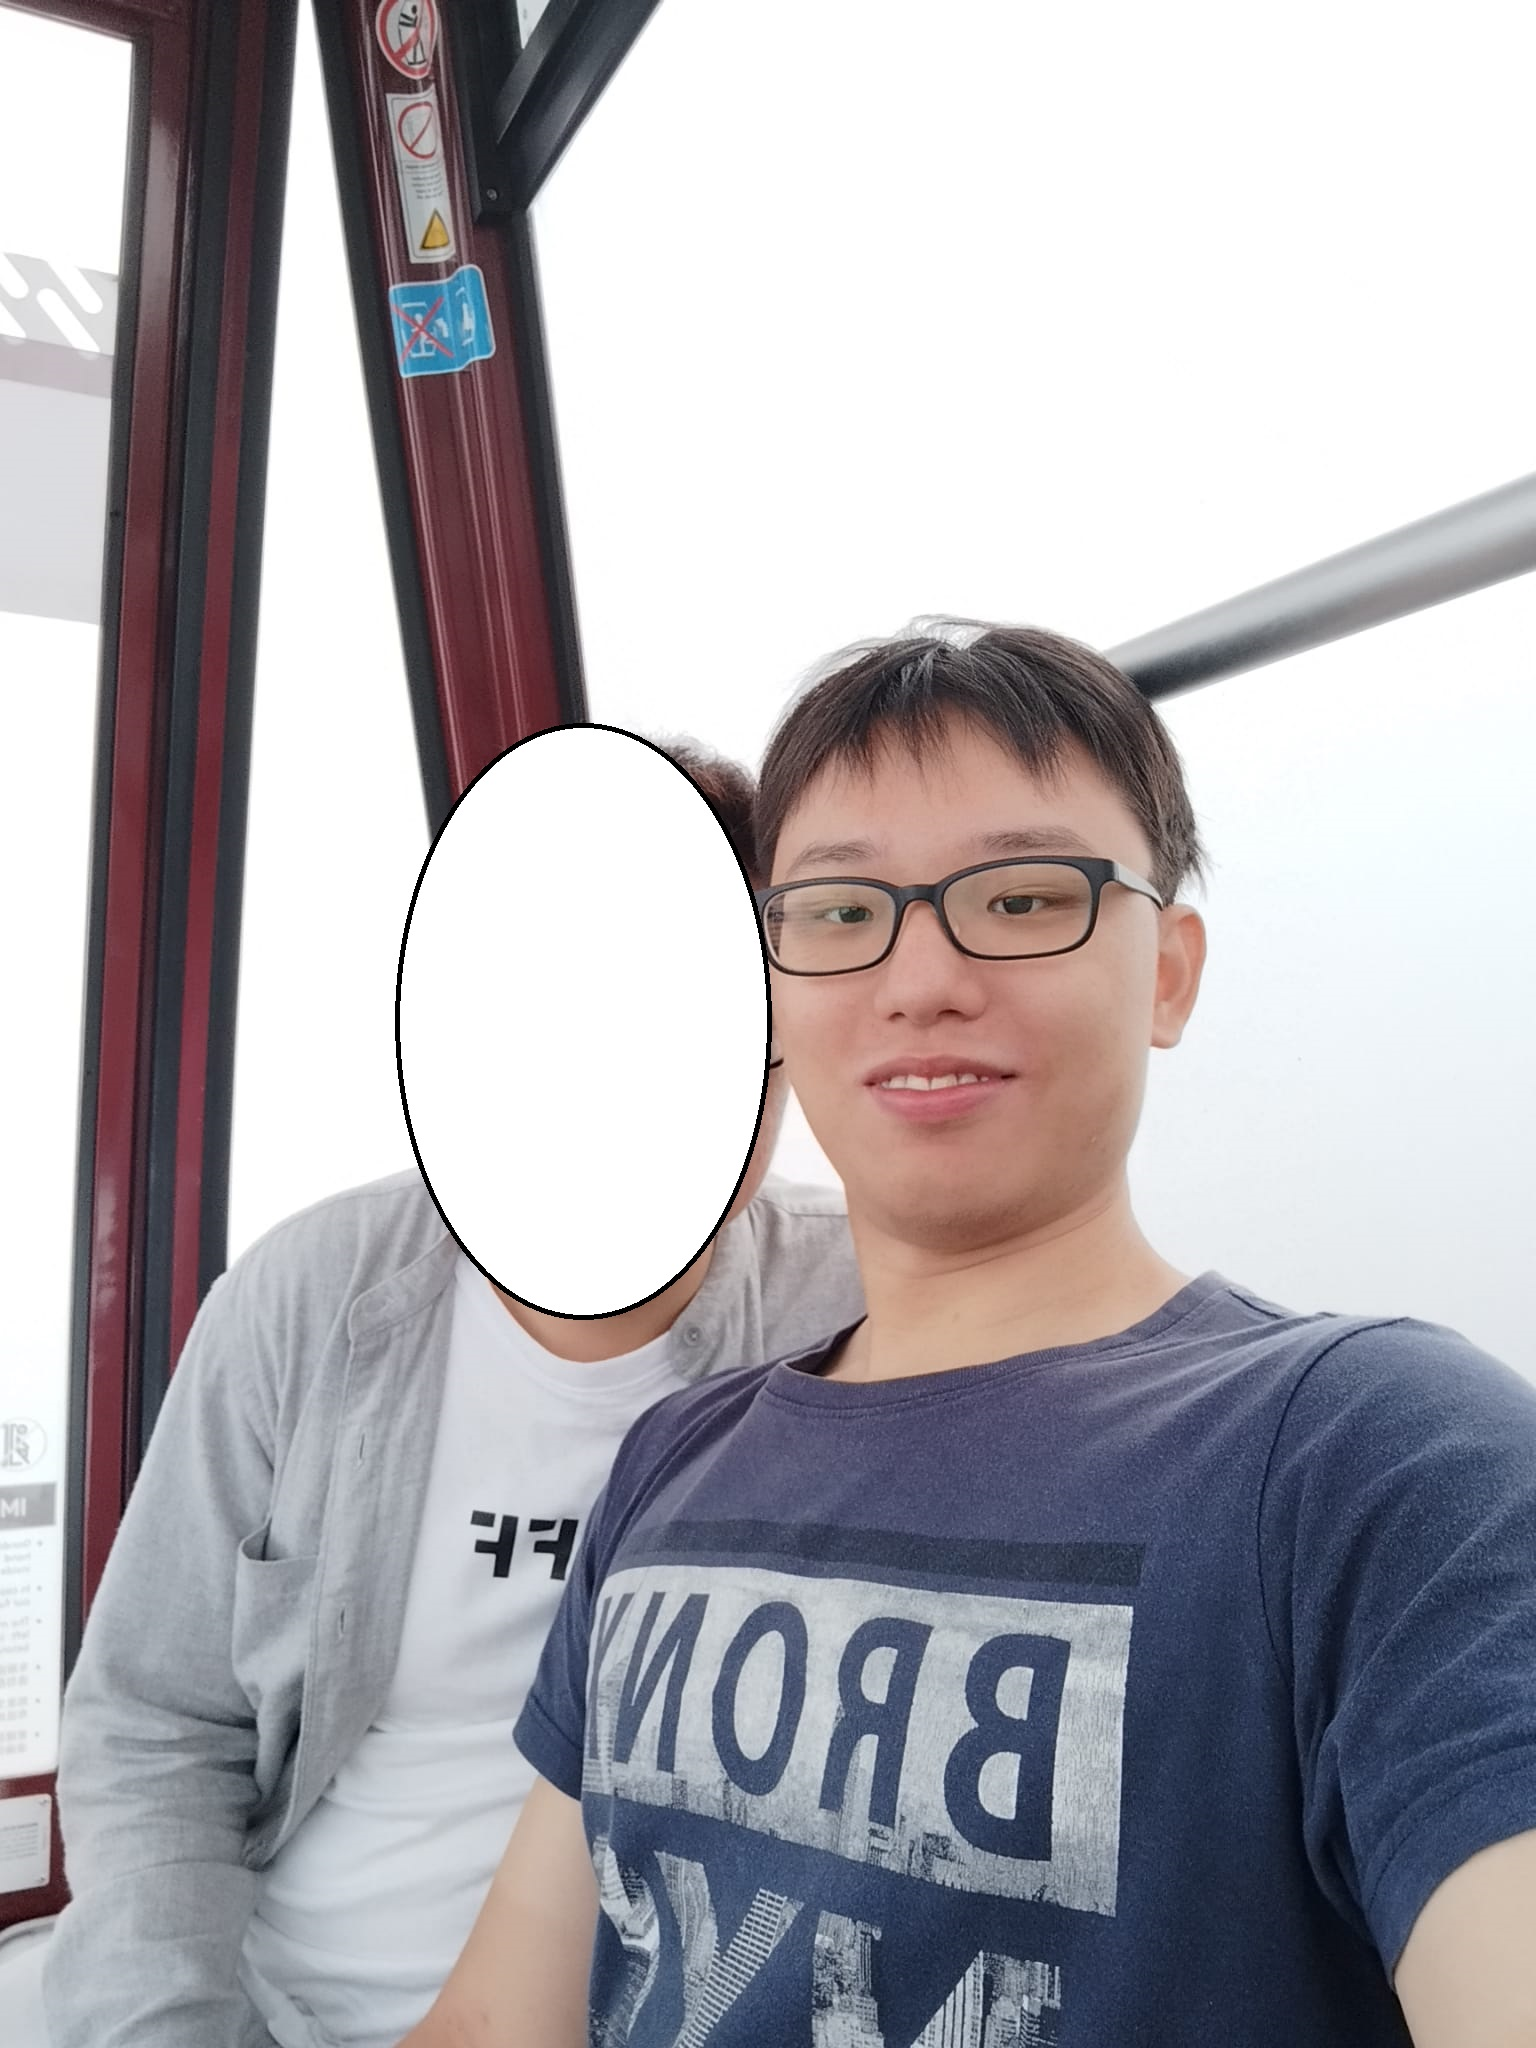
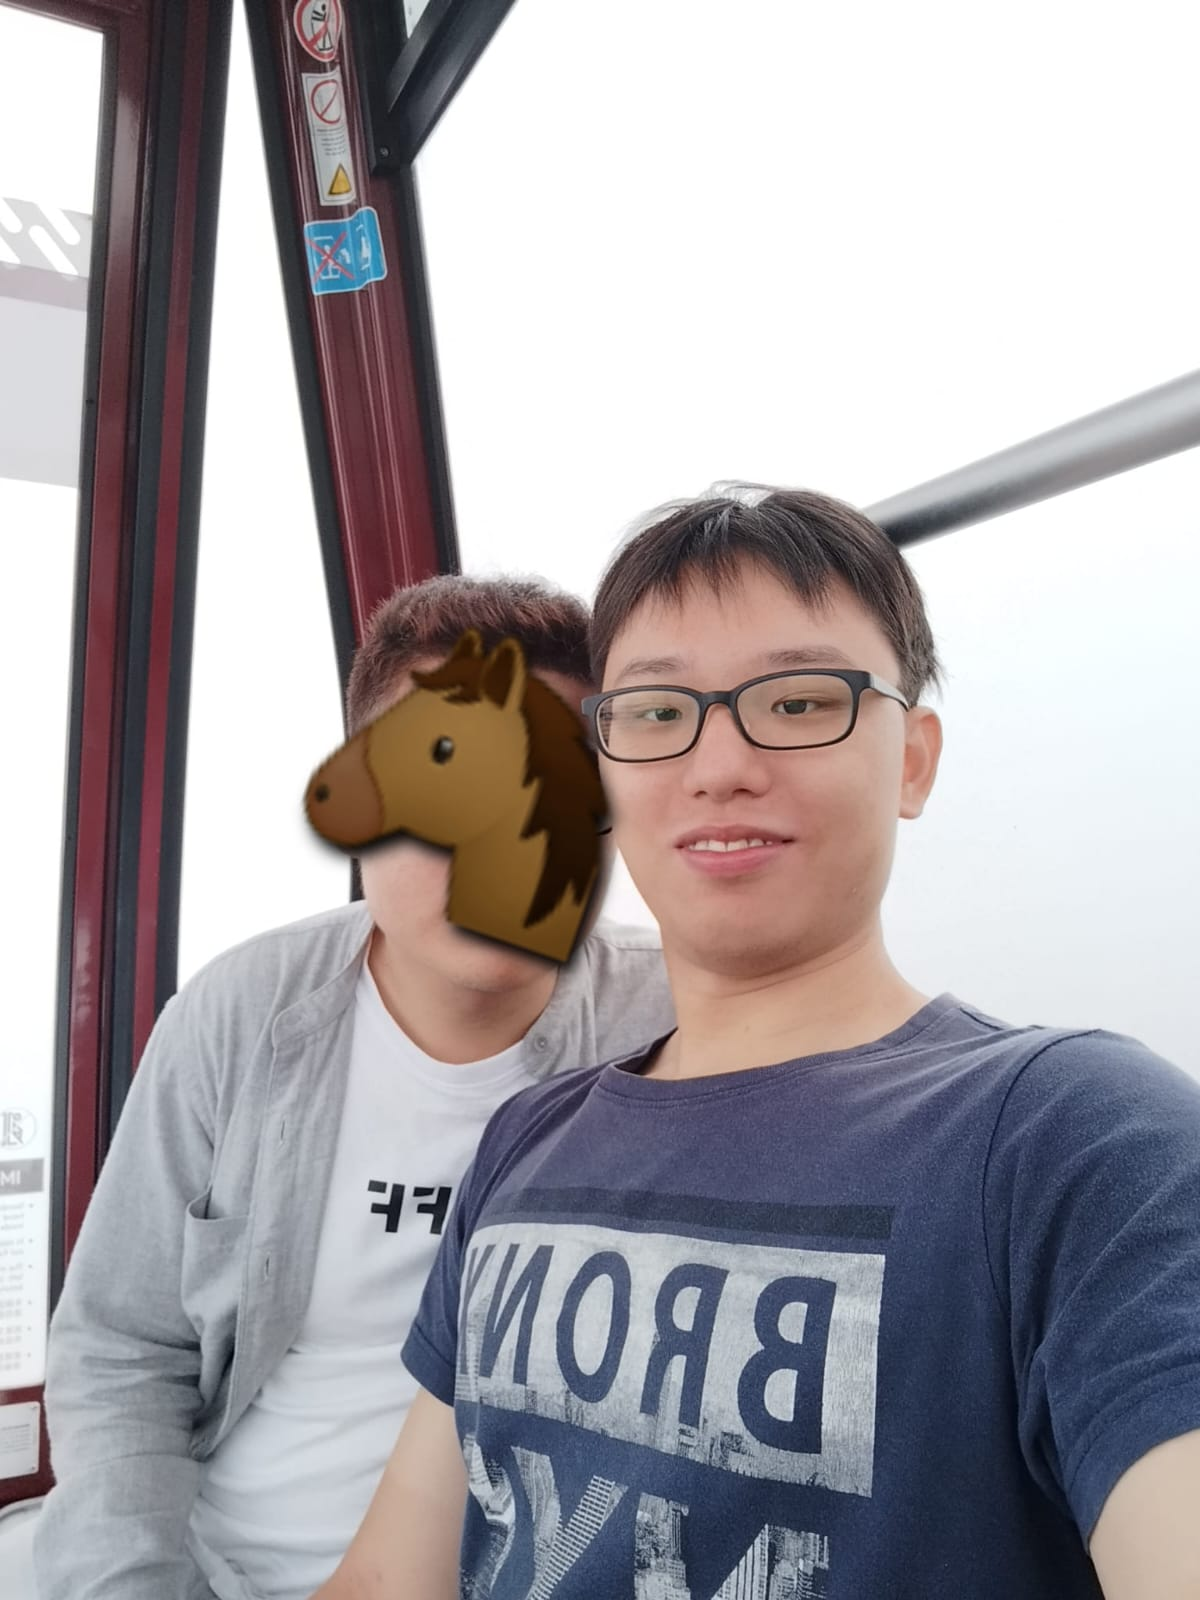
changed pic 2

Changed region(s): [[0.2467, 0.3438, 0.5242, 0.6562]]

diff --git a/index.html b/index.html
@@ -72,7 +72,7 @@
             <img src="img/myimage2.jpeg" class="d-block w-100 carousel-image" data-bs-interval="10000" alt="Image2">
             <div class="carousel-caption d-none d-md-block">
               <h5>Me in cable car</h5>
-              <p>Was in a cable car with a friend in Genting</p>
+              <p>Was in a cable car with a horse in Genting</p>
             </div>
           </div>
           <div class="carousel-item">
@@ -91,10 +91,6 @@
   <div class="container-fluid bg-secondary text-white mt-6 text-center">
     (C) James Tan 2022. All rights reserved.
   </div>
-  
-
-  
-  
   
   <script src="https://cdn.jsdelivr.net/npm/bootstrap@5.2.2/dist/js/bootstrap.bundle.min.js" integrity="sha384-OERcA2EqjJCMA+/3y+gxIOqMEjwtxJY7qPCqsdltbNJuaOe923+mo//f6V8Qbsw3" crossorigin="anonymous"></script>
 </body>
